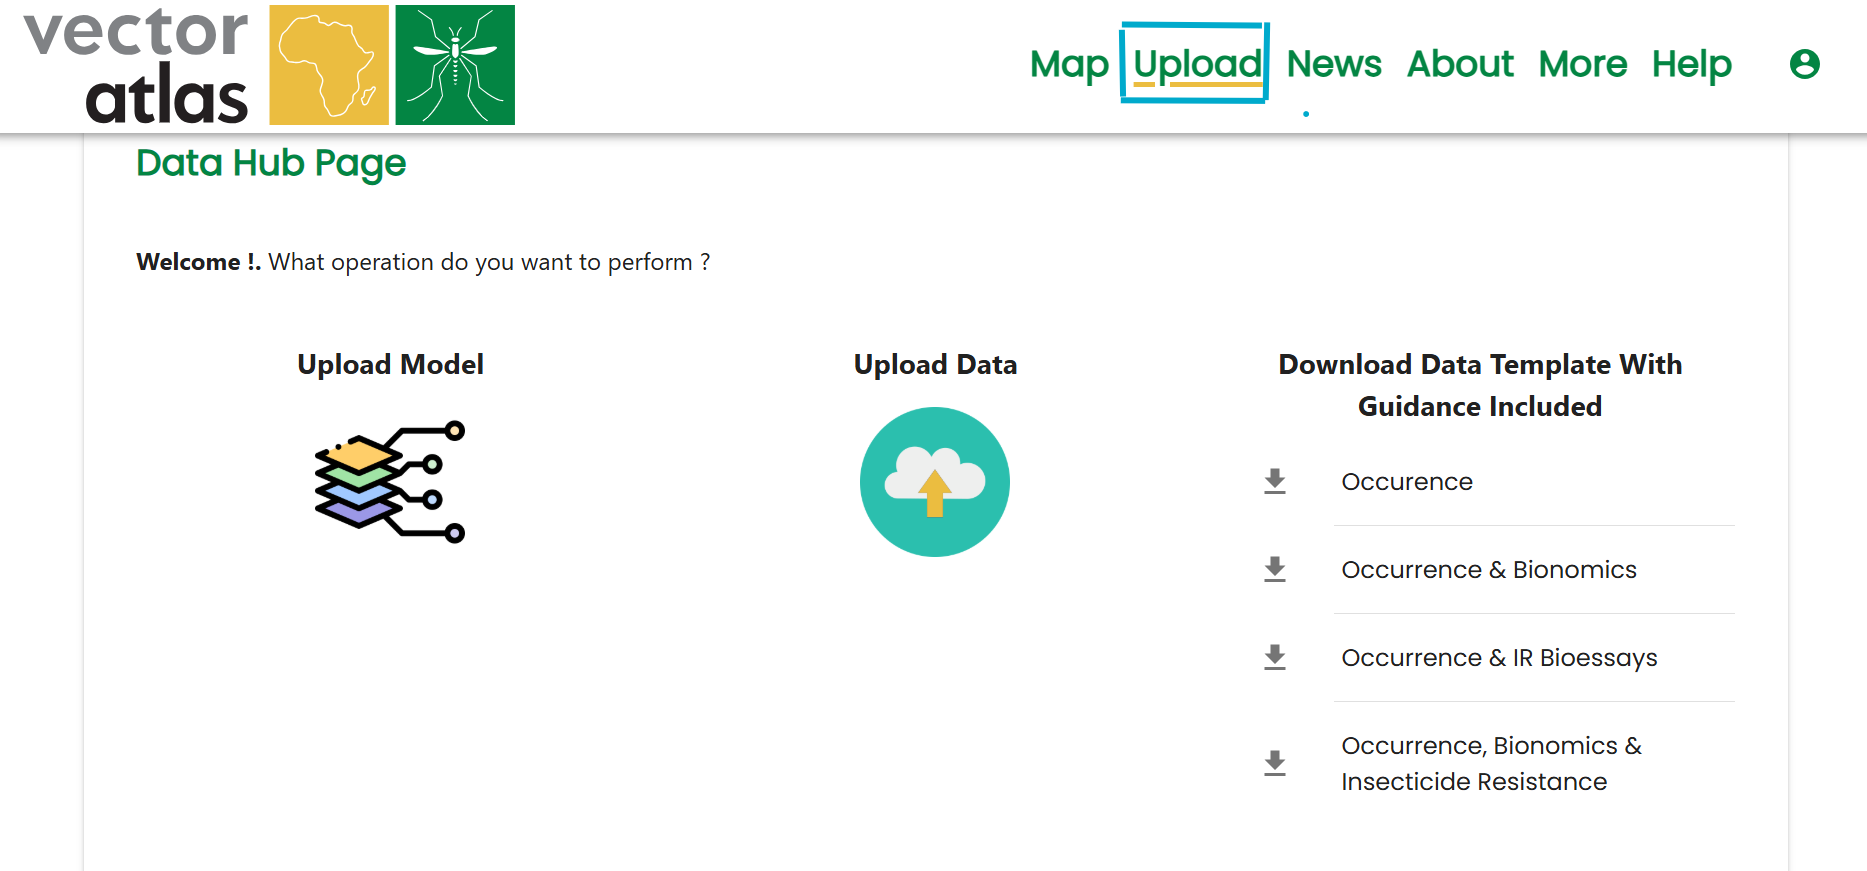
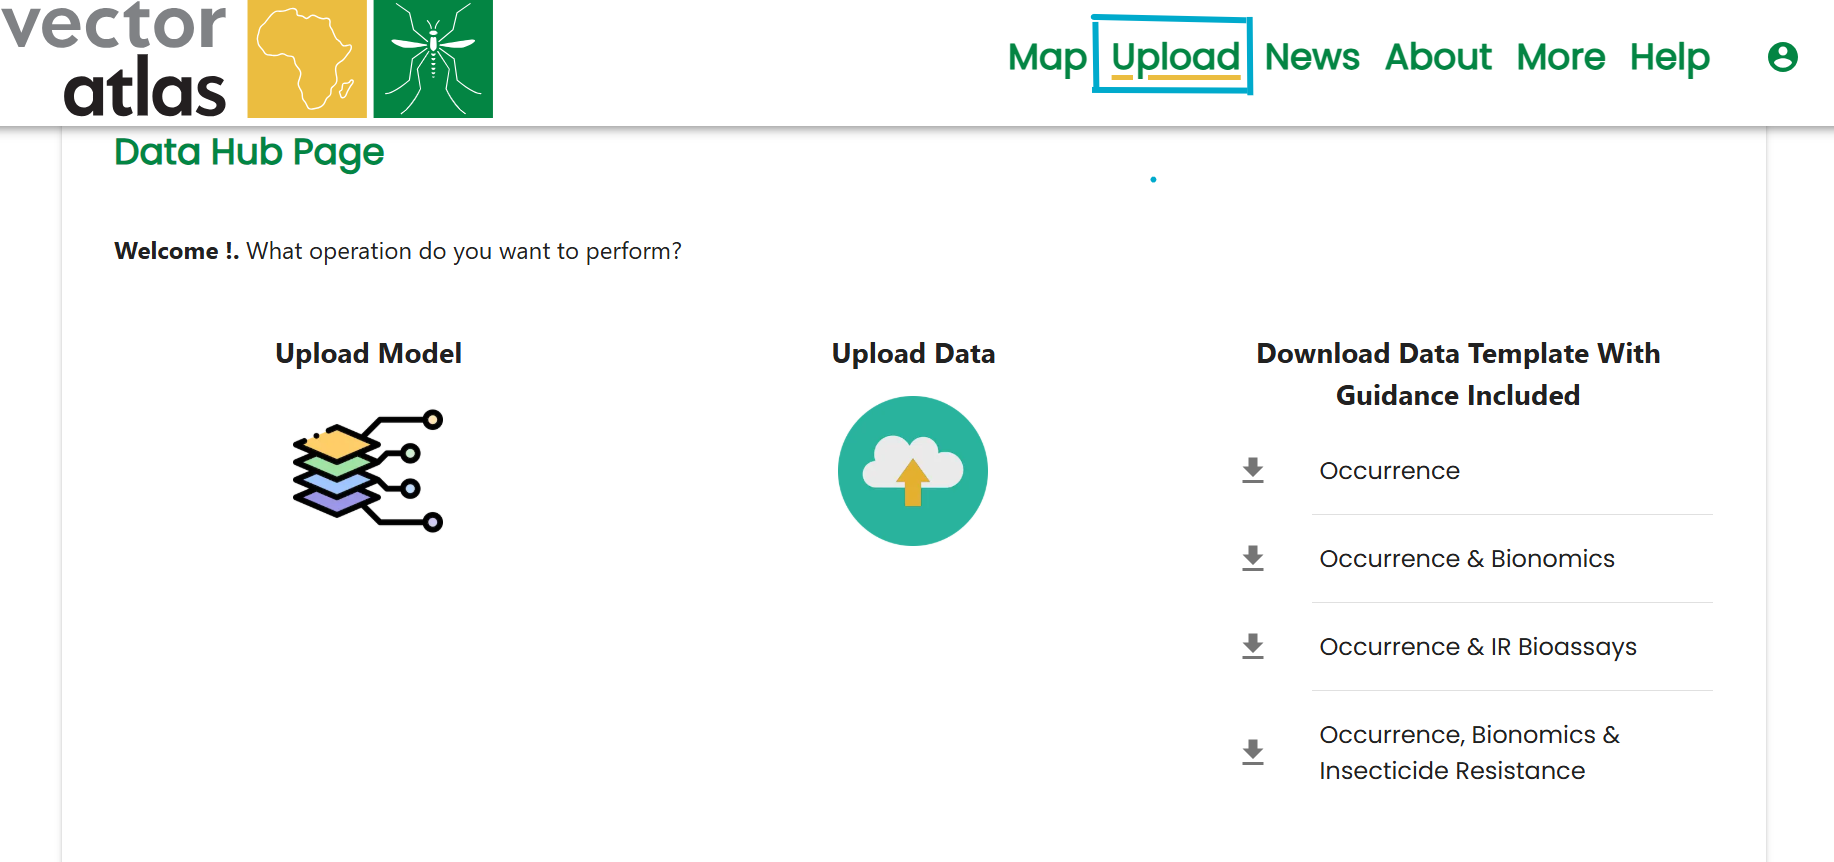
Modified Images for help section

diff --git a/src/Help/docs/05-Contributing data to the atlas/03-Uploading data.md b/src/Help/docs/05-Contributing data to the atlas/03-Uploading data.md
@@ -12,7 +12,7 @@
 - Four major templates are available:
   - **First template**: Contains the "Occurrence" section only.
   - **Second template**: Contains "Occurrence" and "Bionomics" sections.
-  - **Third template**: Contains "Occurrence" and "IR Bioessays" sections.
+  - **Third template**: Contains "Occurrence" and "IR Bioassays" sections.
   - **Final template**: Contains all three sections: "Occurrence," "Bionomics," and "Insecticide Resistance."
 
 ![Templates section](templatesSection.png)
